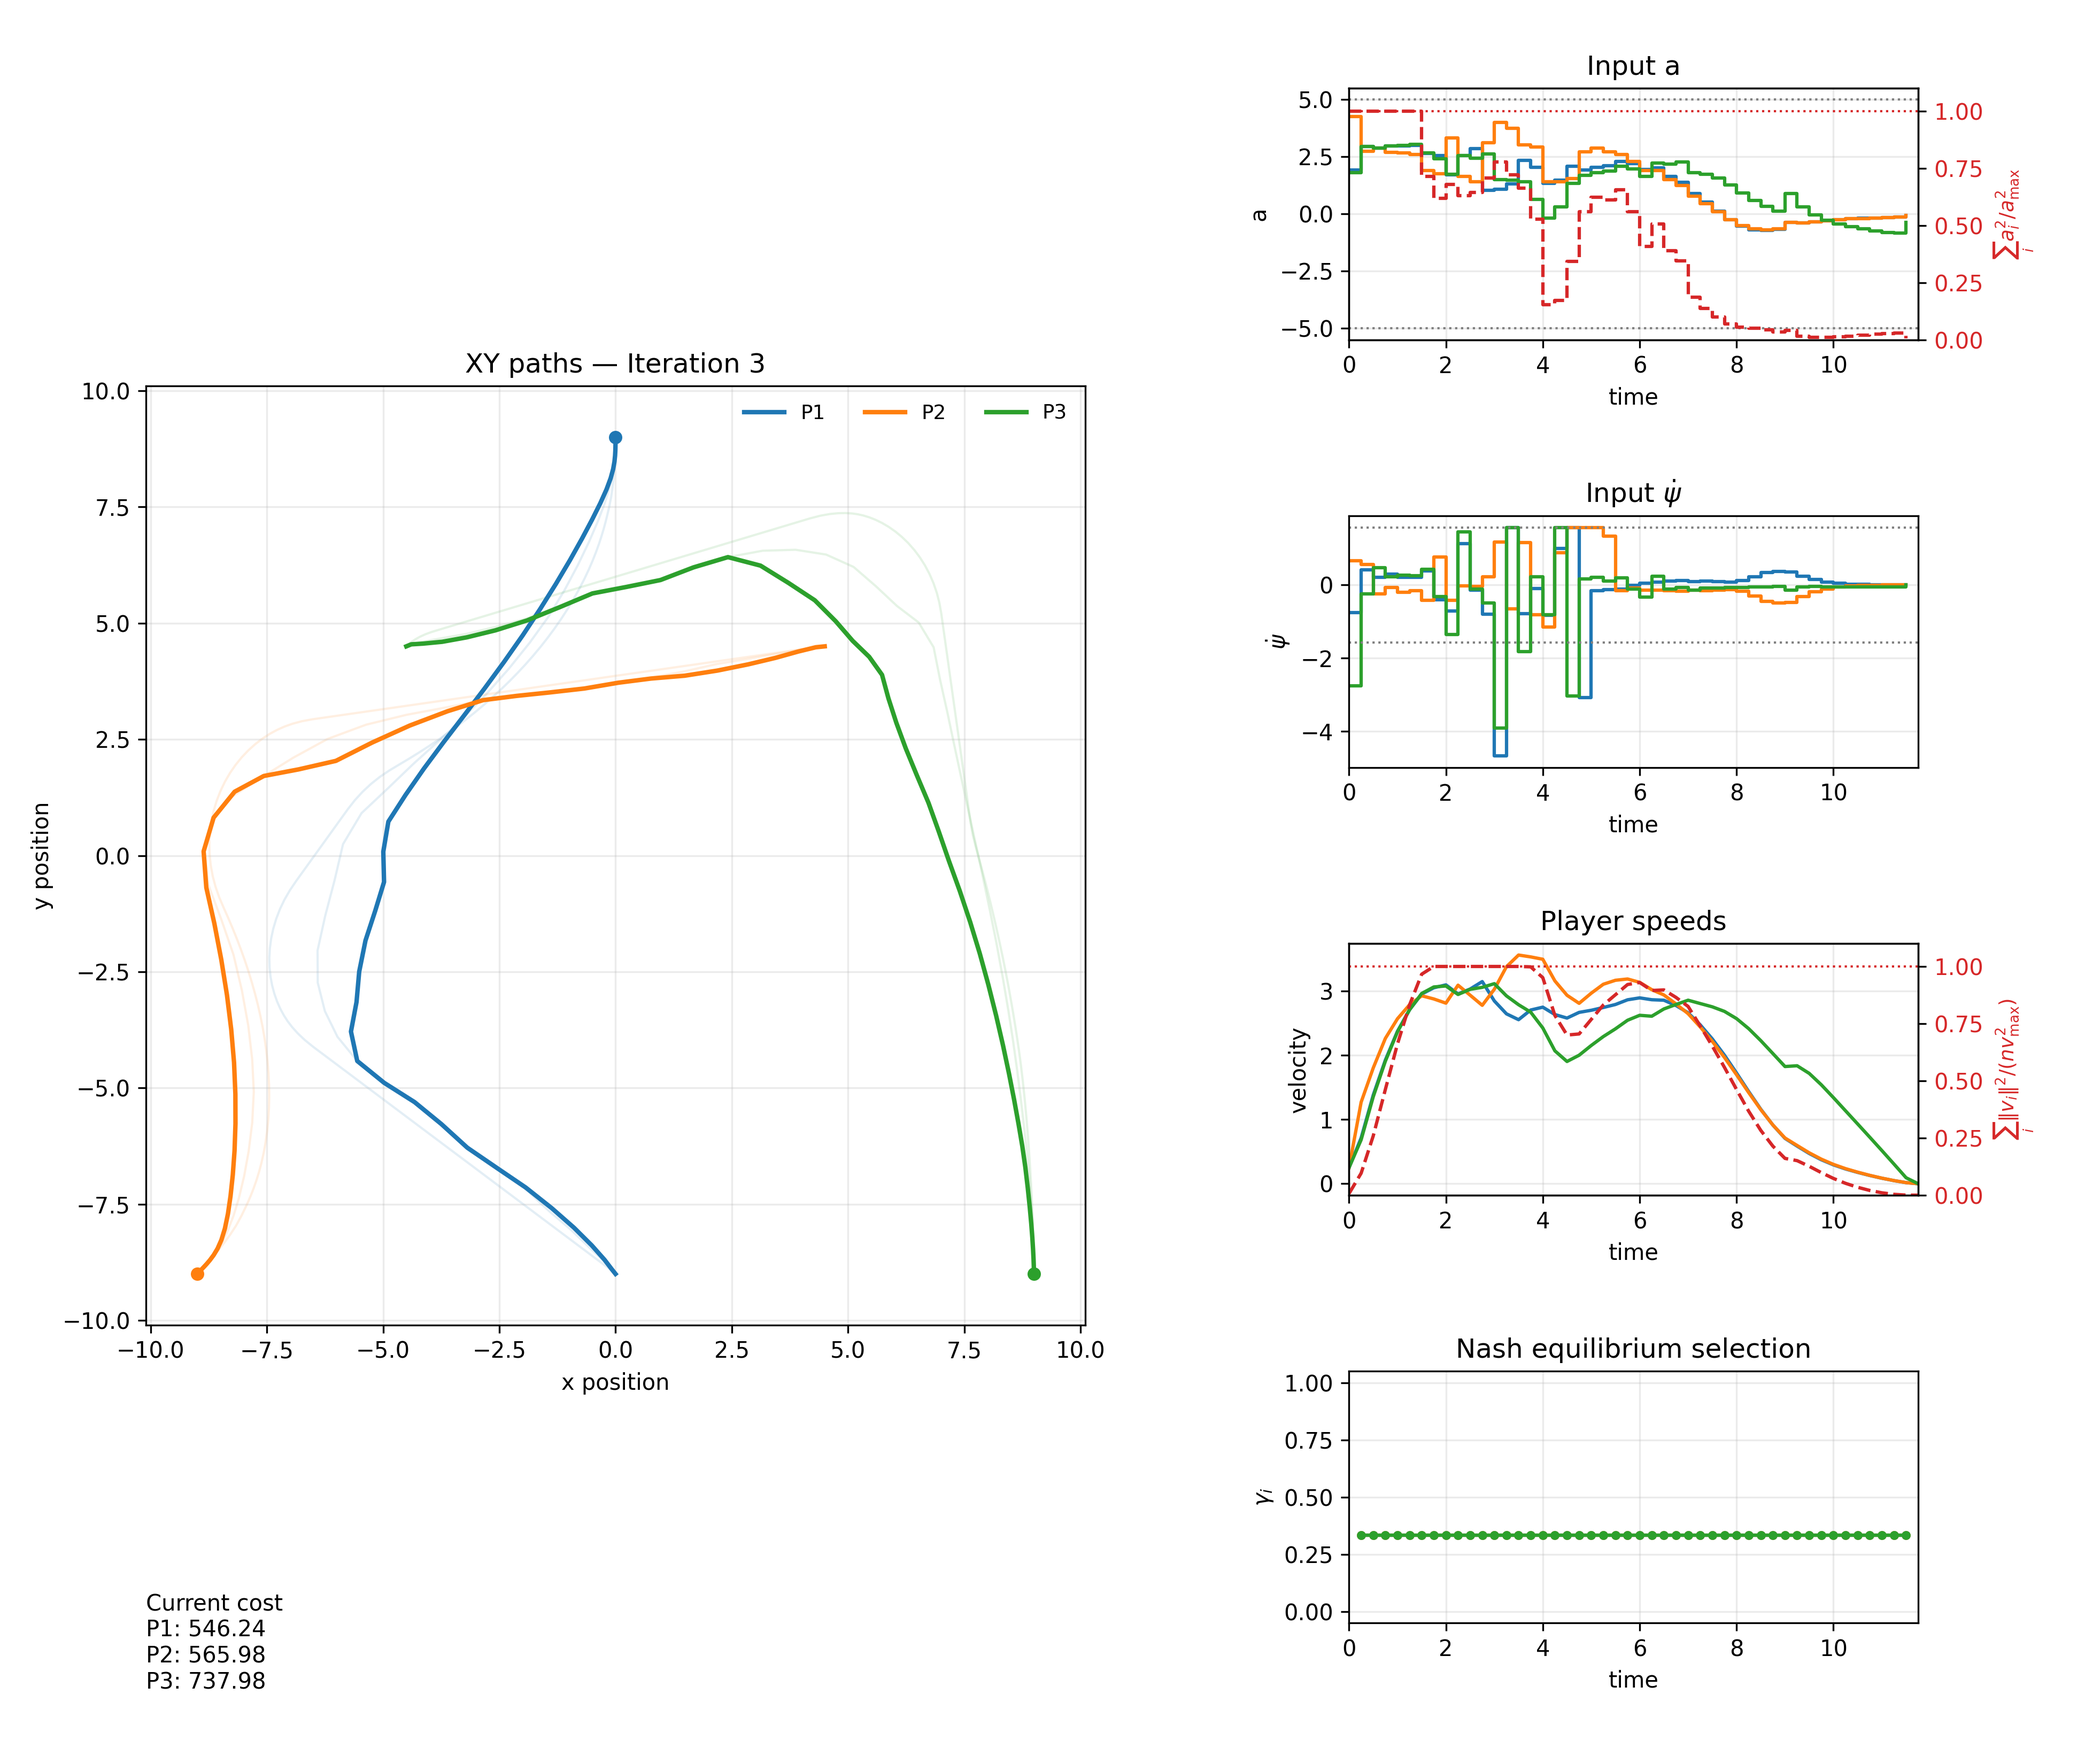
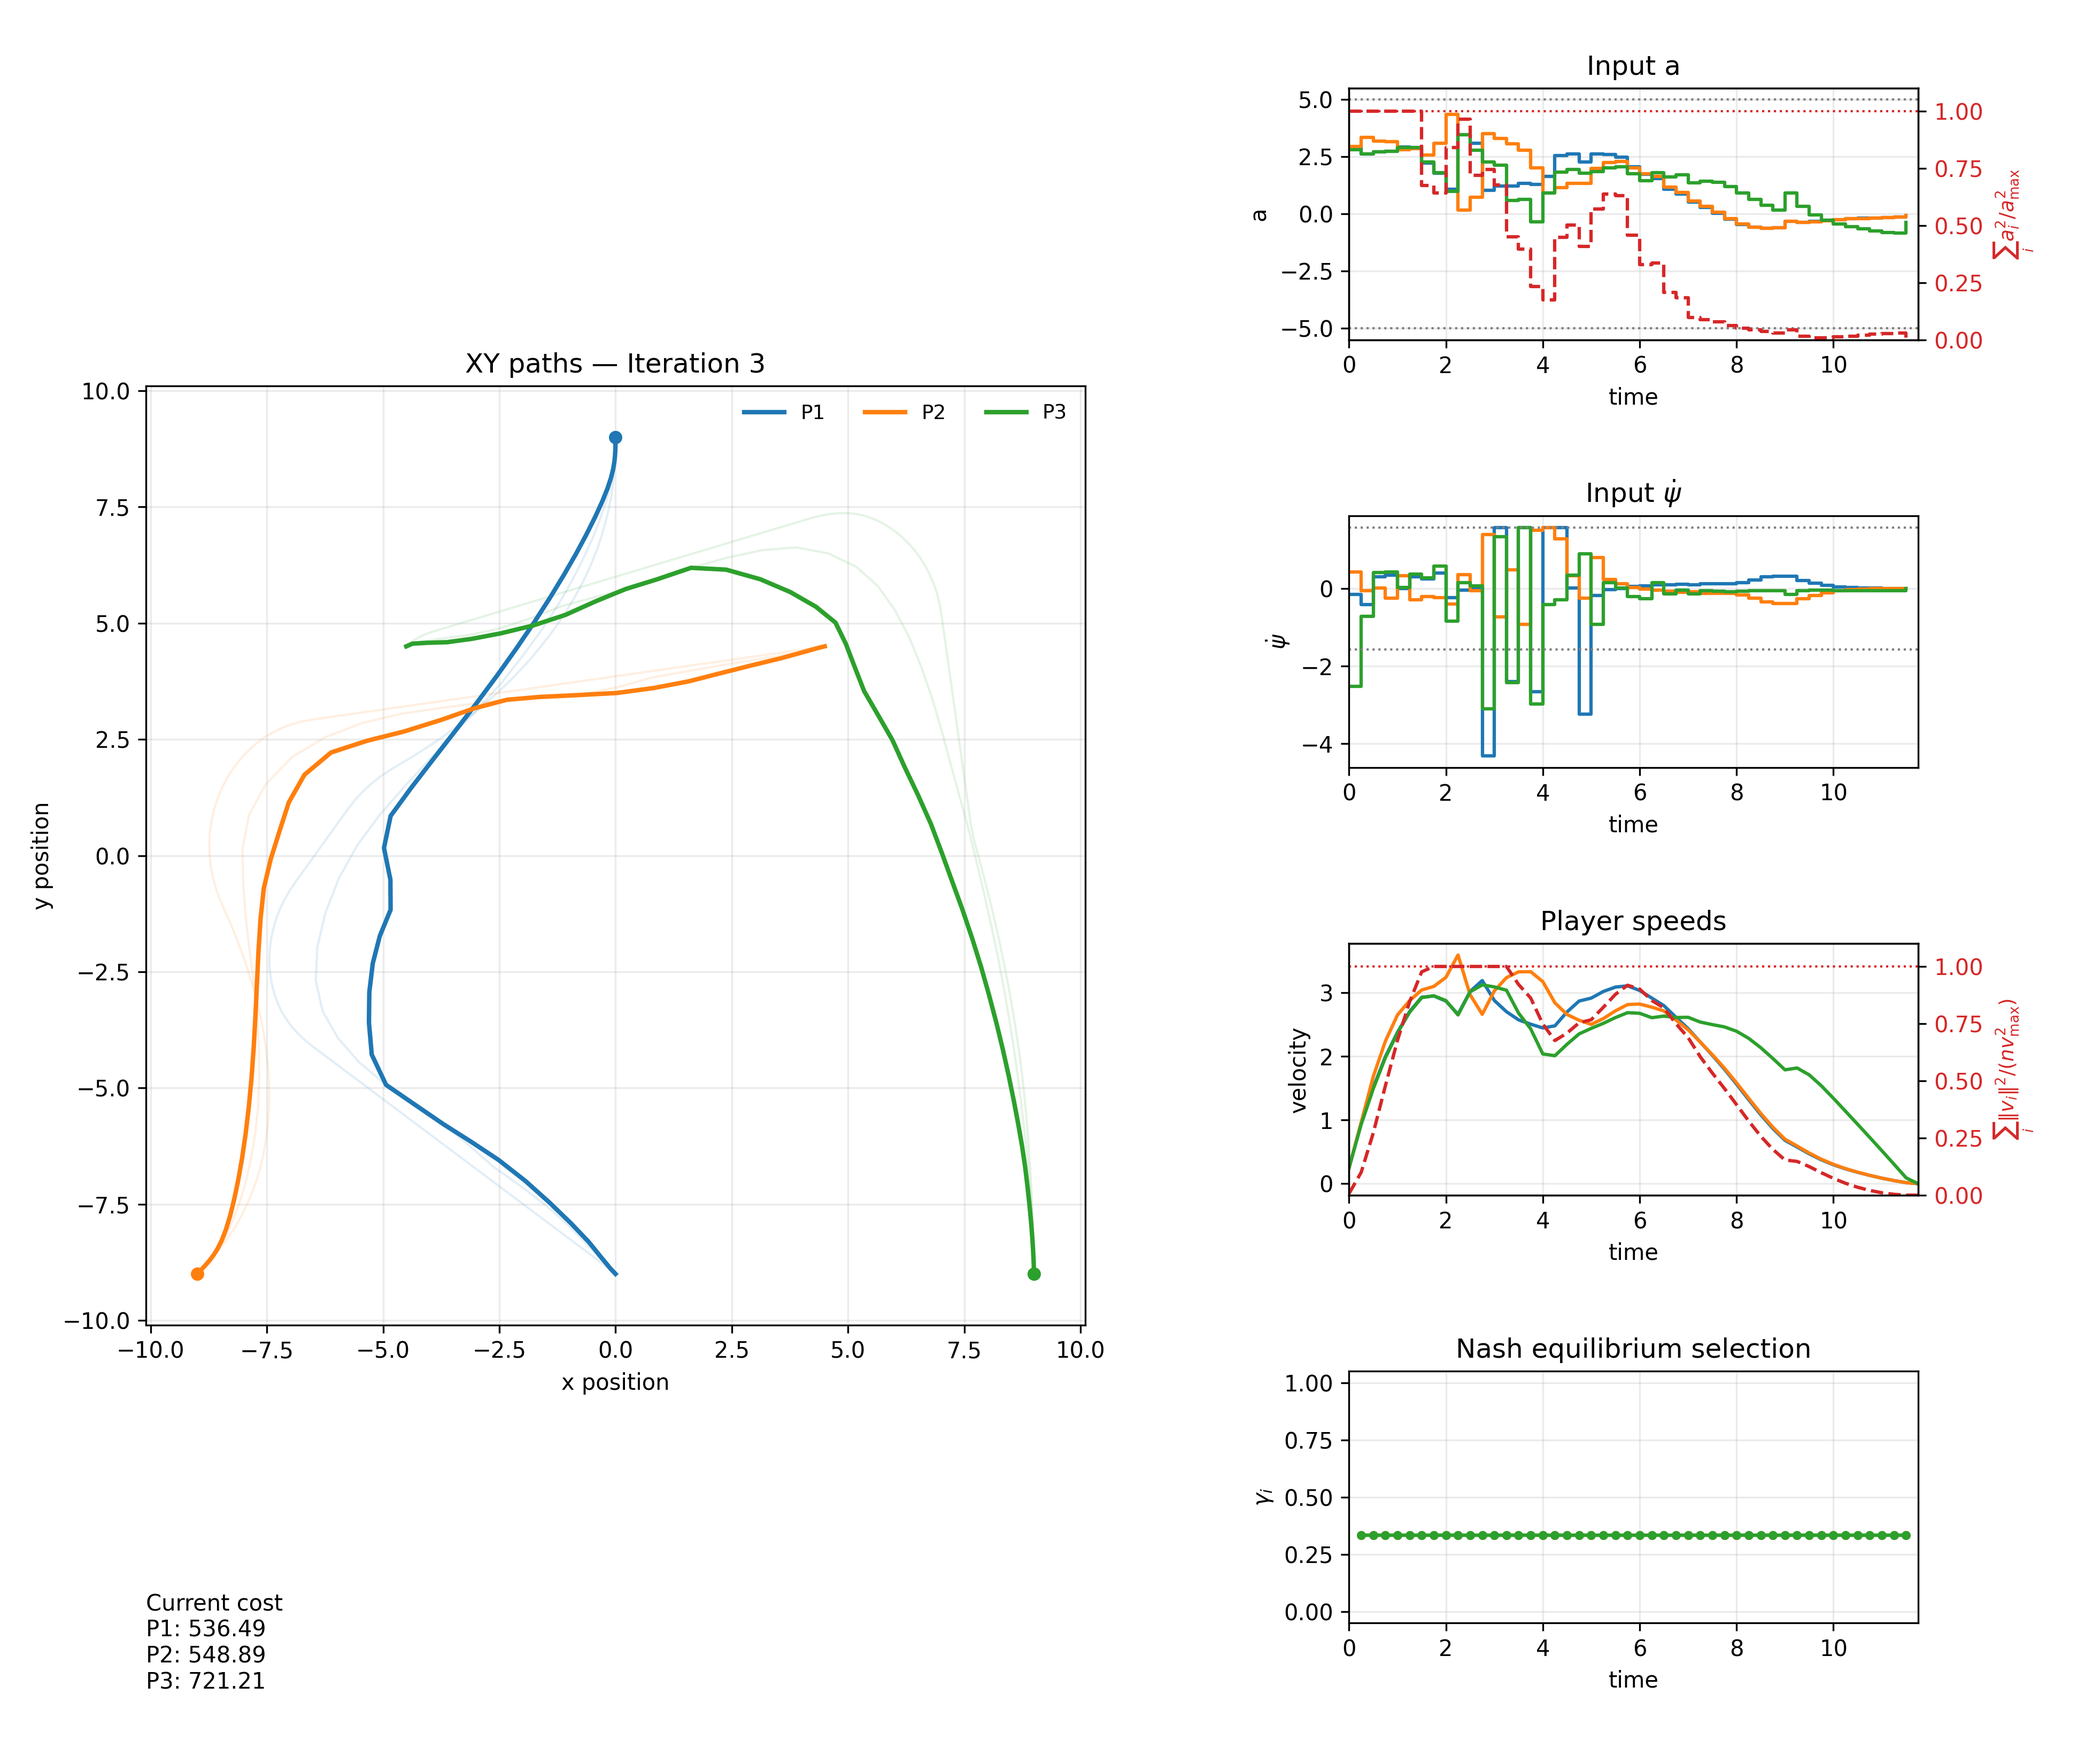
new Rk

diff --git a/DGSolver.py b/DGSolver.py
@@ -484,7 +484,7 @@ class DGSolver:
         self.Rk = R_cost
 
         # Unicycle inputs are [a, psi] or [a, psi_dot]; only acceleration is penalized.
-        input_cost_weights = (np.diag([1.0, 0.1]) if self.game.is_unicycle
+        input_cost_weights = (np.diag([0.1, 0.1]) if self.game.is_unicycle
                               else np.eye(self.game.nu1))
         self.p_tol = p_tol
         self.verbose = verbose
